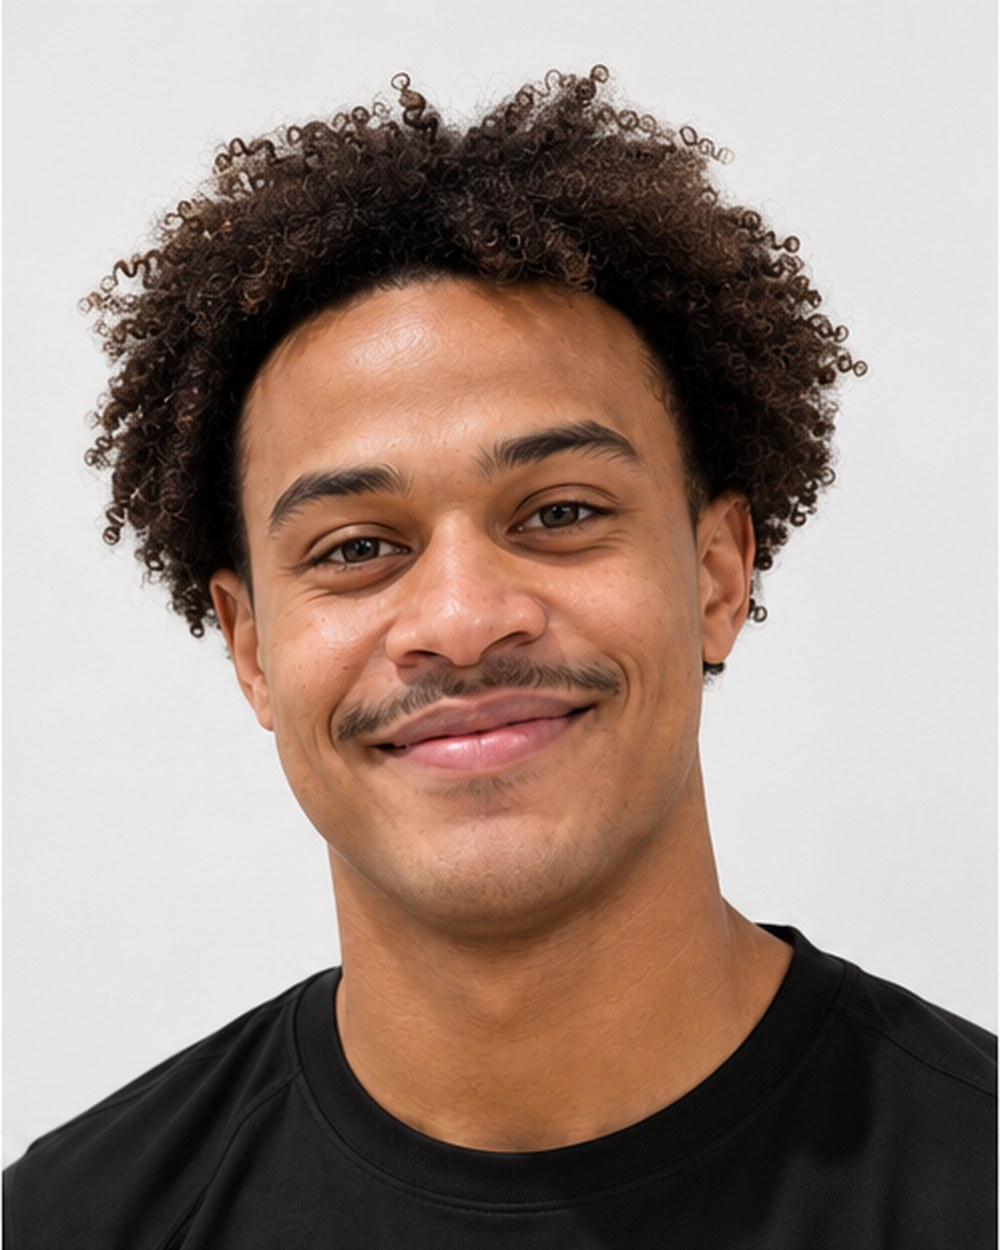
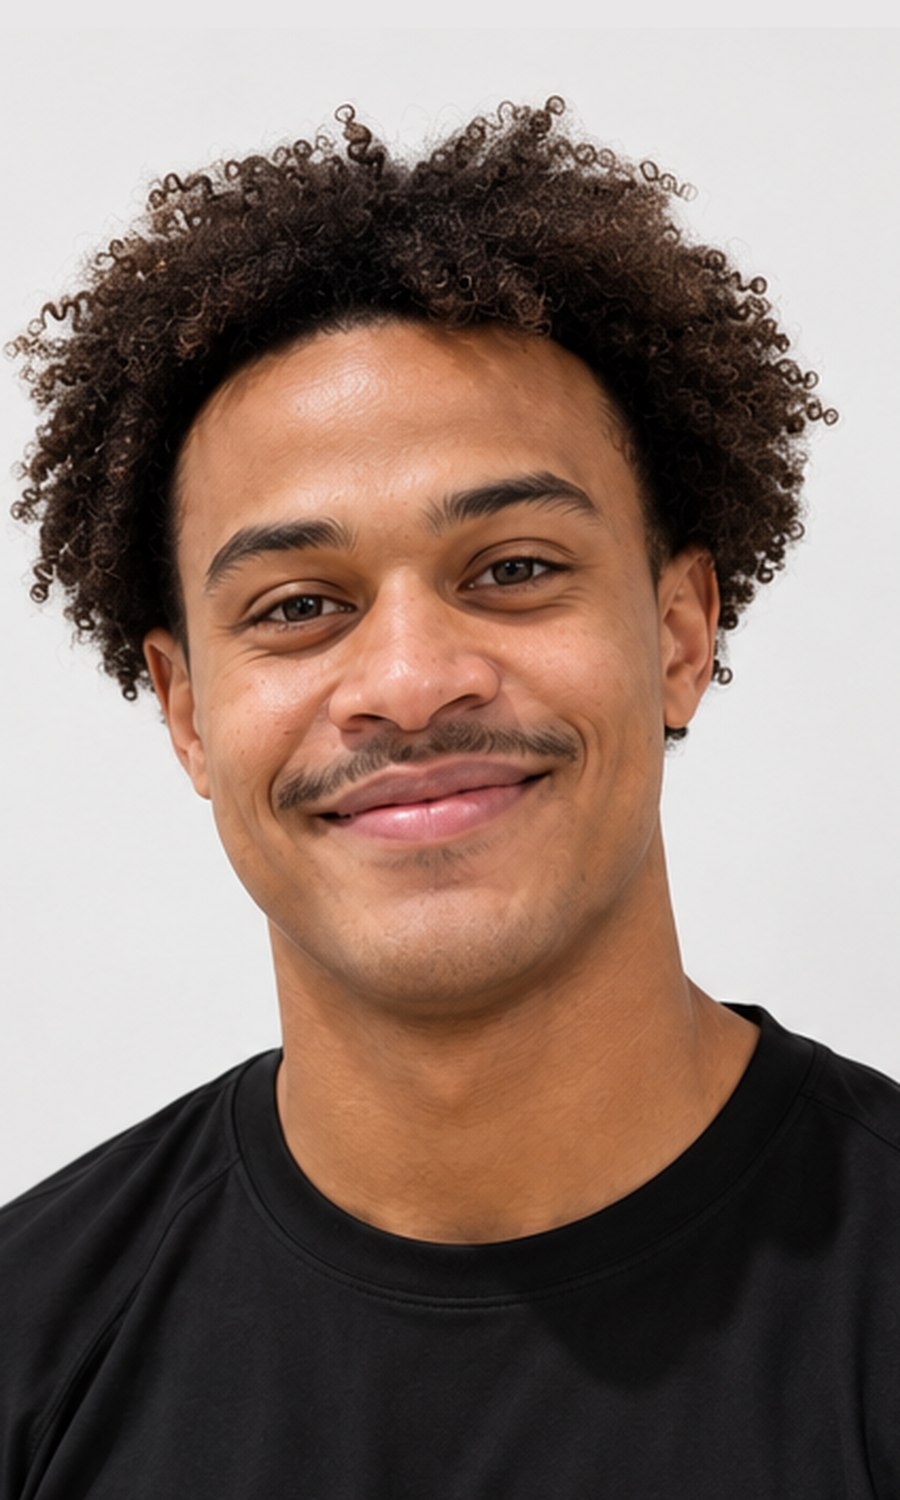
Reshoot framing across all six coach photos; two-sentence bio recaps
Photos — every headshot rebuilt to one composition:
- Frame changed from 4:5 to 3:5 so the chest logo clears the crop. At 4:5
  the three coaches shot on the tall studio panels lost their logo entirely,
  so three cards showed branding and three did not.
- Each crop is now anchored on two measured points: head crown at 6.5% down
  the frame, logo bottom at 93%. Head scale and headroom now match across all
  six regardless of how wide the original was shot.
- Backgrounds normalised to the same studio grey (233,231,231); Justin's,
  Kenya's and Spencer's were shot on near-white and read lighter than the rest.

Bios — collapsed state is now a written recap rather than a clamped excerpt:
- Each card shows a two-sentence summary; "+ More" swaps it for the full bio
- Replaces the max-height clamp and fade, which cut paragraphs mid-sentence

Claude-Session: https://claude.ai/code/session_011Z8dcUaxR3FNyiJKqV5Bn3

diff --git a/about.html b/about.html
@@ -413,12 +413,13 @@ src="https://www.facebook.com/tr?id=846020845059569&ev=PageView&noscript=1"
       <div class="coach-card coach-card--1">
         <div class="coach-card-frame">
           <div class="coach-card-photo photo">
-            <img src="images/coach-johnny-coles.jpg" alt="Johnny Coles, Head of Basketball Development at The Courts" width="1000" height="1250" loading="lazy" decoding="async">
+            <img src="images/coach-johnny-coles.jpg" alt="Johnny Coles, Head of Basketball Development at The Courts" width="900" height="1500" loading="lazy" decoding="async">
             <span class="coach-card-corner"></span>
           </div>
           <div class="coach-card-body">
             <h4 class="coach-card-name">Johnny Coles</h4>
             <p class="coach-card-title">Head of Basketball Development</p>
+            <p class="coach-card-teaser">A Nolensville native who leads basketball development at The Courts, bringing collegiate playing experience from Ravenwood High School through Emory University. He emphasizes purposeful reps, strong fundamentals, and knowing not just how to execute a skill, but when and why to use it.</p>
             <div class="coach-card-bio" id="bio-johnny-coles">
               <p>Nolensville native Johnny Coles leads basketball development at The Courts, bringing collegiate playing experience and a strong understanding of what it takes to develop skilled, confident players.</p>
               <p>Johnny played four years at Ravenwood High School, serving as team captain as a senior and earning All-Conference Tournament Team honors before continuing his career at Oxford College of Emory University and Emory University.</p>
@@ -433,12 +434,13 @@ src="https://www.facebook.com/tr?id=846020845059569&ev=PageView&noscript=1"
       <div class="coach-card coach-card--2">
         <div class="coach-card-frame">
           <div class="coach-card-photo photo">
-            <img src="images/coach-spencer-richardson.jpg" alt="Spencer Richardson, Basketball Development Specialist at The Courts" width="1000" height="1250" loading="lazy" decoding="async">
+            <img src="images/coach-spencer-richardson.jpg" alt="Spencer Richardson, Basketball Development Specialist at The Courts" width="900" height="1500" loading="lazy" decoding="async">
             <span class="coach-card-corner"></span>
           </div>
           <div class="coach-card-body">
             <h4 class="coach-card-name">Spencer Richardson</h4>
             <p class="coach-card-title">Basketball Development Specialist</p>
+            <p class="coach-card-teaser">A Nashville native and founder of All-Around-Game Basketball, Spencer has spent more than 15 years developing players from the youth level through the professional ranks. At The Courts he joins us for select basketball training and specialty programming.</p>
             <div class="coach-card-bio" id="bio-spencer-richardson">
               <p>A Nashville native and founder of All-Around-Game Basketball, Spencer Richardson has spent more than 15 years developing basketball players from the youth level through college and the professional ranks.</p>
               <p>Spencer starred at Nashville&rsquo;s Maplewood High School, helping lead the program to back-to-back state tournament appearances while earning All-District and All-Region honors as a junior and senior. He averaged 19.1 points per game as a senior while shooting 45 percent from three-point range, then continued his playing career at Shawnee Community College before returning home to Nashville and turning his focus to player development.</p>
@@ -454,12 +456,13 @@ src="https://www.facebook.com/tr?id=846020845059569&ev=PageView&noscript=1"
       <div class="coach-card coach-card--5">
         <div class="coach-card-frame">
           <div class="coach-card-photo photo">
-            <img src="images/coach-jaila-lee.jpg" alt="Jaila Lee, Basketball Coach at The Courts" width="1000" height="1250" loading="lazy" decoding="async">
+            <img src="images/coach-jaila-lee.jpg" alt="Jaila Lee, Basketball Coach at The Courts" width="900" height="1500" loading="lazy" decoding="async">
             <span class="coach-card-corner"></span>
           </div>
           <div class="coach-card-body">
             <h4 class="coach-card-name">Jaila Lee</h4>
             <p class="coach-card-title">Basketball Trainer</p>
+            <p class="coach-card-teaser">A Brentwood native and Brentwood Academy graduate, Jaila brings Division I playing experience from St. Francis Brooklyn, UNC Asheville, and UNC Greensboro. She works with players on skill development, confidence, defense, and translating training into live play.</p>
             <div class="coach-card-bio" id="bio-jaila-lee">
               <p>Brentwood native Jaila Lee brings Division I playing experience and a current player&rsquo;s perspective to the athletes she coaches at The Courts.</p>
               <p>A graduate of Brentwood Academy, Jaila grew up playing in the same Middle Tennessee basketball community many of our athletes are coming through today. She began her collegiate career at St. Francis Brooklyn, continued at UNC Asheville, and later played at UNC Greensboro, where she became a regular starter and earned Southern Conference recognition.</p>
@@ -474,12 +477,13 @@ src="https://www.facebook.com/tr?id=846020845059569&ev=PageView&noscript=1"
       <div class="coach-card coach-card--6">
         <div class="coach-card-frame">
           <div class="coach-card-photo photo">
-            <img src="images/coach-sara-quint.jpg" alt="Sara Quint, Head of Volleyball Development at The Courts" width="1000" height="1250" loading="lazy" decoding="async">
+            <img src="images/coach-sara-quint.jpg" alt="Sara Quint, Head of Volleyball Development at The Courts" width="900" height="1500" loading="lazy" decoding="async">
             <span class="coach-card-corner"></span>
           </div>
           <div class="coach-card-body">
             <h4 class="coach-card-name">Sara Quint</h4>
             <p class="coach-card-title">Head of Volleyball Development</p>
+            <p class="coach-card-teaser">Sara leads volleyball development at The Courts, with experience as both a player and coach across multiple levels of the game. She currently serves as Assistant Varsity and JV Coach at Providence Christian Academy.</p>
             <div class="coach-card-bio" id="bio-sara-quint">
               <p>Sara leads volleyball development at The Courts, bringing experience as both a player and coach across multiple levels of the game. She focuses on helping athletes build strong fundamentals, confidence, and the consistent repetitions needed to keep progressing.</p>
               <p>Sara also brings high school and club coaching experience, currently serving as the Assistant Varsity and JV Coach at Providence Christian Academy and coaching an 11-1s club team this upcoming season.</p>
@@ -495,12 +499,13 @@ src="https://www.facebook.com/tr?id=846020845059569&ev=PageView&noscript=1"
       <div class="coach-card coach-card--4">
         <div class="coach-card-frame">
           <div class="coach-card-photo photo">
-            <img src="images/coach-justin-frank.jpg" alt="Justin Frank, Volleyball Coach at The Courts" width="1000" height="1250" loading="lazy" decoding="async">
+            <img src="images/coach-justin-frank.jpg" alt="Justin Frank, Volleyball Coach at The Courts" width="900" height="1500" loading="lazy" decoding="async">
             <span class="coach-card-corner"></span>
           </div>
           <div class="coach-card-body">
             <h4 class="coach-card-name">Justin Frank</h4>
             <p class="coach-card-title">Volleyball Trainer</p>
+            <p class="coach-card-teaser">Justin is the Varsity and JV Volleyball Coach at Mill Creek Middle School and brings club coaching experience to The Courts. He focuses on technically sound fundamentals, court awareness, and confidence under pressure.</p>
             <div class="coach-card-bio" id="bio-justin-frank">
               <p>Justin brings current school and club coaching experience to The Courts, along with a strong understanding of how young volleyball players develop from fundamentals into competitive play.</p>
               <p>Justin currently serves as the Varsity and JV Volleyball Coach at Mill Creek Middle School, where he leads athletes through preseason training, practices, and competition. He also brings club volleyball coaching experience to his work with developing players.</p>
@@ -514,12 +519,13 @@ src="https://www.facebook.com/tr?id=846020845059569&ev=PageView&noscript=1"
       <div class="coach-card coach-card--3">
         <div class="coach-card-frame">
           <div class="coach-card-photo photo">
-            <img src="images/coach-kenya-wyatt.jpg" alt="Kenya Wyatt, Volleyball &amp; Performance Trainer at The Courts" width="1000" height="1250" loading="lazy" decoding="async">
+            <img src="images/coach-kenya-wyatt.jpg" alt="Kenya Wyatt, Volleyball &amp; Performance Trainer at The Courts" width="900" height="1500" loading="lazy" decoding="async">
             <span class="coach-card-corner"></span>
           </div>
           <div class="coach-card-body">
             <h4 class="coach-card-name">Kenya Wyatt</h4>
             <p class="coach-card-title">Volleyball &amp; Performance Trainer</p>
+            <p class="coach-card-teaser">A former Division I volleyball player at Alabama State University and former Head Volleyball Coach at Centennial High School, Kenya brings a player&rsquo;s, coach&rsquo;s, and parent&rsquo;s perspective. At The Courts she works both on the volleyball court and through sport-agnostic performance training.</p>
             <div class="coach-card-bio" id="bio-kenya-wyatt">
               <p>Kenya brings collegiate playing experience, high school head-coaching experience, and a strong background in athlete development to The Courts.</p>
               <p>A former Division I volleyball player at Alabama State University, Kenya later moved into coaching and served as Head Volleyball Coach at Centennial High School in Franklin. Her experience as a player, coach, and parent gives her a well-rounded perspective on what athletes need as they grow through different stages of competition.</p>
@@ -595,7 +601,7 @@ src="https://www.facebook.com/tr?id=846020845059569&ev=PageView&noscript=1"
       overflow: hidden; transition: transform 0.25s var(--ease), box-shadow 0.25s var(--ease);
     }
     .coach-card-frame:hover { transform: translateY(-4px); box-shadow: 0 16px 32px rgba(23,23,23,0.14); }
-    .coach-card-photo { position: relative; aspect-ratio: 4/5; border-bottom: 2px solid var(--black); }
+    .coach-card-photo { position: relative; aspect-ratio: 3/5; border-bottom: 2px solid var(--black); }
     .coach-card-photo.placeholder { background: var(--orange-soft); }
     .coach-card-photo:not(.placeholder) { background: var(--white); overflow: hidden; }
     .coach-card-photo > img { width: 100%; height: 100%; object-fit: cover; object-position: center top; display: block; }
@@ -604,16 +610,15 @@ src="https://www.facebook.com/tr?id=846020845059569&ev=PageView&noscript=1"
     .coach-card-body { position: relative; padding: 20px 20px 22px; flex: 1; display: flex; flex-direction: column; }
     .coach-card-name { position: relative; z-index: 1; font-family: var(--font-display); font-weight: 900; font-size: 21px; letter-spacing: 0.01em; color: var(--black); margin: 0 0 3px; }
     .coach-card-title { position: relative; z-index: 1; font-family: var(--font-sport); font-size: 12px; font-weight: 700; text-transform: uppercase; letter-spacing: 0.05em; color: var(--orange); margin: 0 0 14px; }
-    .coach-card-bio { position: relative; z-index: 1; font-size: 14.5px; line-height: 1.65; color: var(--gray-dark); margin: 0; max-height: 4.95em; overflow: hidden; transition: max-height 0.32s var(--ease); }
+    .coach-card-teaser { position: relative; z-index: 1; font-size: 14.5px; line-height: 1.65; color: var(--gray-dark); margin: 0; }
+    .coach-card-bio { position: relative; z-index: 1; display: none; font-size: 14.5px; line-height: 1.65; color: var(--gray-dark); margin: 0; }
     .coach-card-bio p { margin: 0 0 11px; }
     .coach-card-bio p:last-child { margin-bottom: 0; }
-    .coach-card-bio::after { content: ''; position: absolute; left: 0; right: 0; bottom: 0; height: 2.1em; background: linear-gradient(to bottom, rgba(255,255,255,0), var(--white) 78%); pointer-events: none; transition: opacity 0.2s var(--ease); }
-    .coach-card-body.is-open .coach-card-bio { max-height: 80em; }
-    .coach-card-body.is-open .coach-card-bio::after { opacity: 0; }
-    .coach-card-more { position: relative; z-index: 1; align-self: flex-start; margin-top: 9px; padding: 0; background: none; border: 0; cursor: pointer; font-family: var(--font-sport); font-size: 12px; font-weight: 700; letter-spacing: 0.05em; text-transform: uppercase; color: var(--orange); transition: color 0.18s var(--ease); }
-    .coach-card-more:hover { color: var(--orange-hover, #CE5E26); text-decoration: underline; }
+    .coach-card-body.is-open .coach-card-teaser { display: none; }
+    .coach-card-body.is-open .coach-card-bio { display: block; }
+    .coach-card-more { position: relative; z-index: 1; align-self: flex-start; margin-top: 11px; padding: 0; background: none; border: 0; cursor: pointer; font-family: var(--font-sport); font-size: 12px; font-weight: 700; letter-spacing: 0.05em; text-transform: uppercase; color: var(--orange); transition: color 0.18s var(--ease); }
+    .coach-card-more:hover { color: #CE5E26; text-decoration: underline; }
     .coach-card-more:focus-visible { outline: 2px solid var(--orange); outline-offset: 3px; border-radius: 2px; }
-    @media (prefers-reduced-motion: reduce) { .coach-card-bio { transition: none; } }
     .coach-card-focus { position: relative; z-index: 1; margin: 14px 0 0; order: 9; margin-top: auto; padding-top: 12px; border-top: 1px solid rgba(23,23,23,0.12); font-family: var(--font-sport); font-size: 11px; font-weight: 700; letter-spacing: 0.05em; text-transform: uppercase; color: var(--orange-ink, var(--orange)); line-height: 1.6; }
 
     @media (max-width: 900px) {
